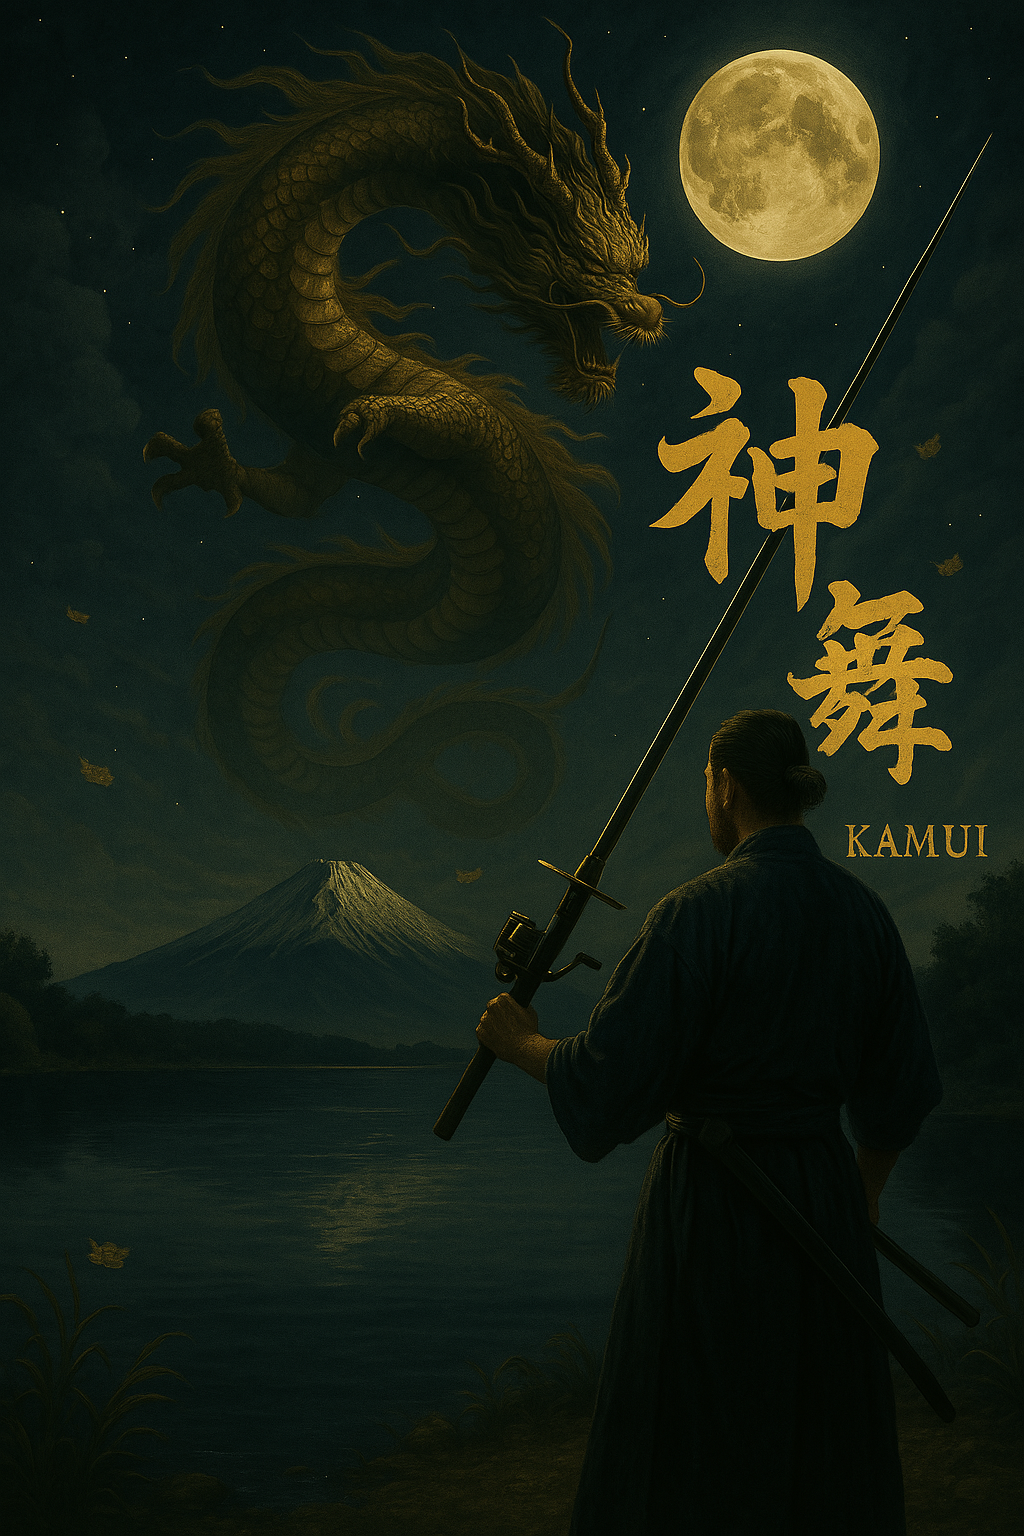
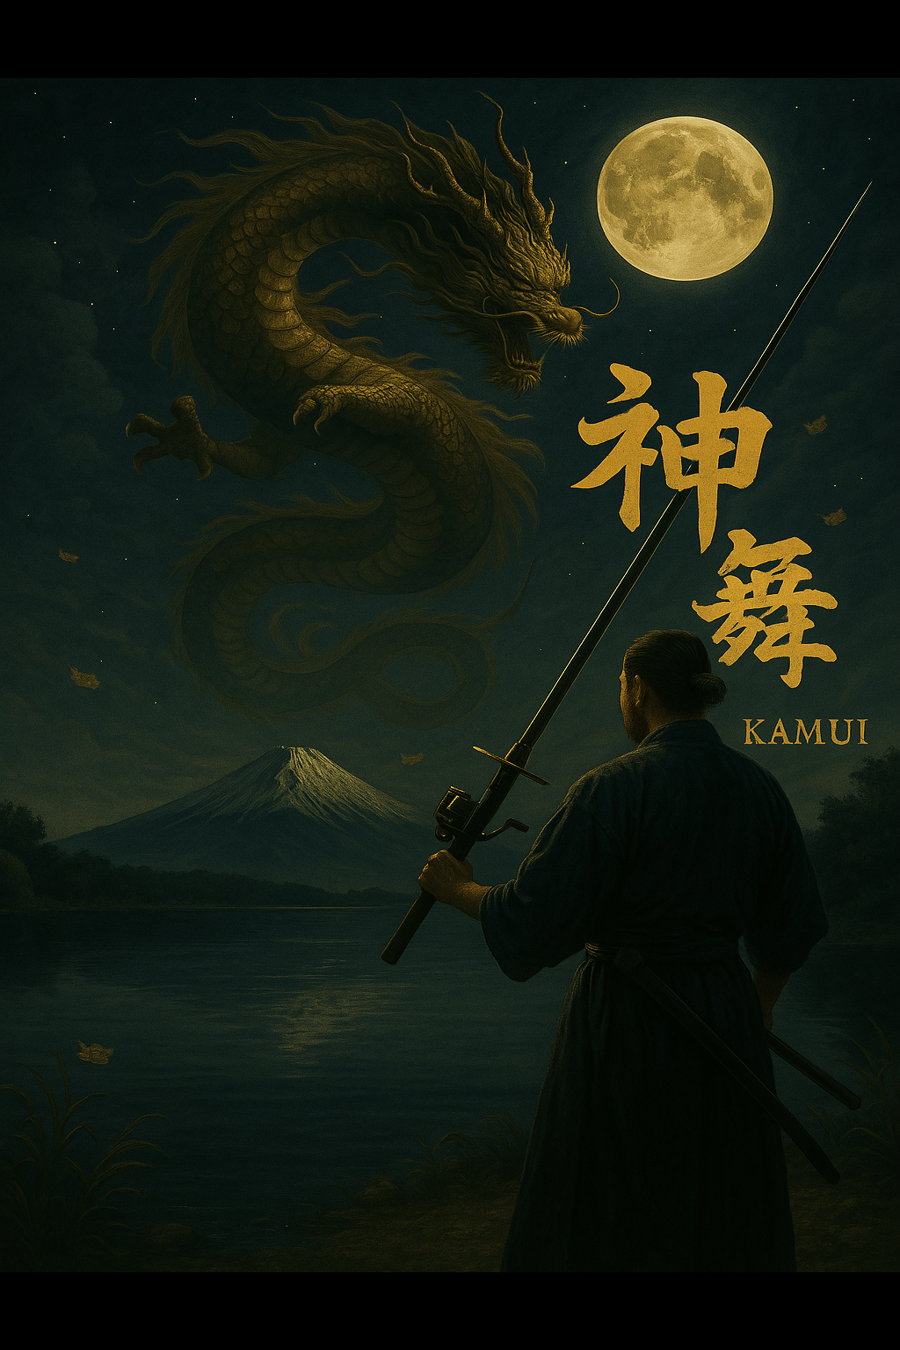
Add files via upload

diff --git a/style.css b/style.css
@@ -91,3 +91,45 @@ footer {
   background-color: gold;
   color: black;
 }
+
+/* ヘッダーを上の余白に固定 */
+.header {
+  position: absolute;
+  top: 0;
+  left: 0;
+  width: 100%;
+  padding: 1em 0;
+  background: rgba(0, 0, 0, 0.5);
+  z-index: 10;
+  text-align: center;
+}
+
+/* 戻るボタンの強化表示 */
+.back-btn {
+  text-align: center;
+  margin: 3em 0 2em;
+}
+.back-btn a {
+  font-size: 1.2rem;
+  font-weight: bold;
+  padding: 0.75em 2em;
+  background-color: black;
+  color: gold;
+  border: 2px solid gold;
+  border-radius: 8px;
+  text-decoration: none;
+  display: inline-block;
+  transition: all 0.3s ease;
+}
+.back-btn a:hover {
+  background-color: gold;
+  color: black;
+}
+
+/* 背景を見切れず中央に */
+body {
+  background-image: url('background.png');
+  background-repeat: no-repeat;
+  background-size: 900px 1350px;
+  background-position: top center;
+}
